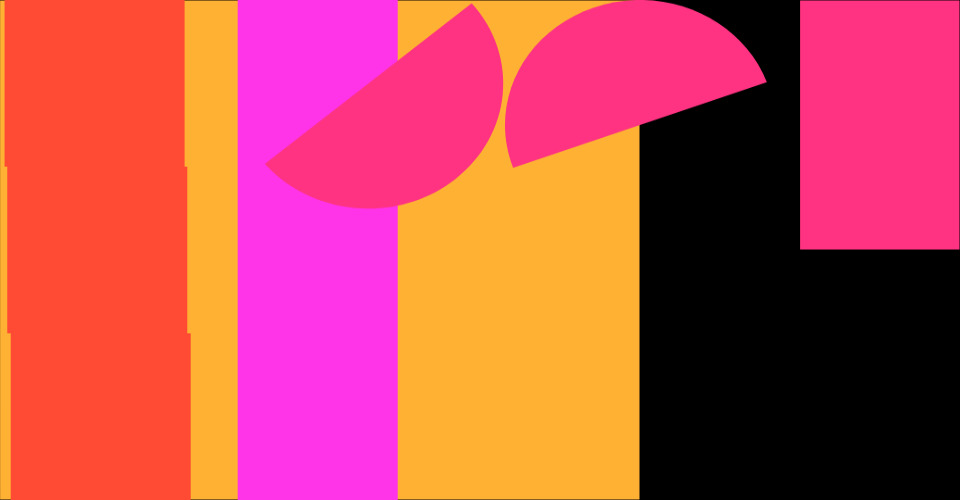
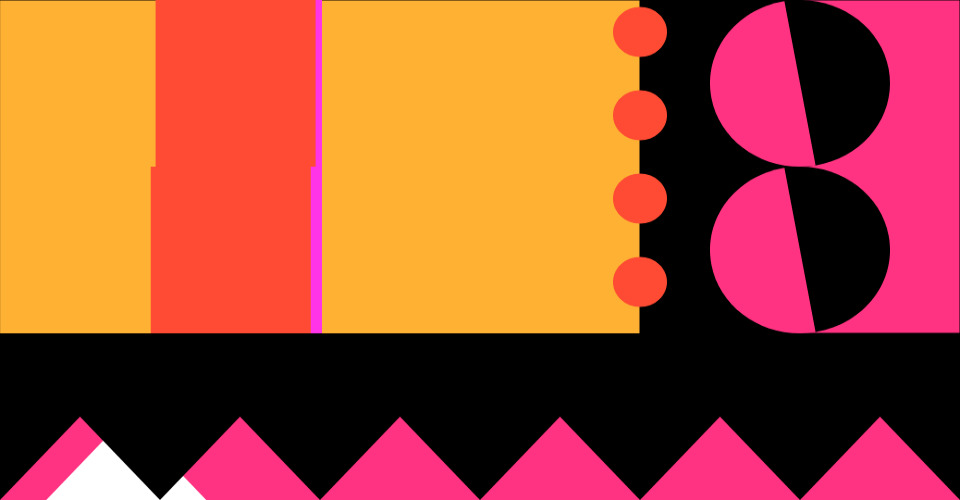
Core elements & buffer

diff --git a/draw_one_frame.js b/draw_one_frame.js
@@ -8,12 +8,15 @@ function draw_one_frame(cur_frac){
   let orange = color("#ff4b33");
   let gold = color("#ffb133");
 
+  // Useful code
+  // fill(color(map(amount_across, 0, 1, 0, 255)))
+
   background(0);
   fill(gold);
   rect(0, 0, width * 4/6, height);
 
   fill(hot_pink);
-  rect(width * 5/6, 0, width * 1/6, height/2);
+  rect(width * 5/6, 0, width * 1/6, height * 4/6);
 
   // Back rectangle
   draw_Backrect(cur_frac);
@@ -21,16 +24,27 @@ function draw_one_frame(cur_frac){
   // Upper-left squares
   draw_rect_1(cur_frac);
   draw_rect_2(cur_frac);
-  draw_rect_3(cur_frac);
+  // draw_rect_3(cur_frac);
 
   // Rotating semi-circle
   draw_semi();
   draw_semi2();
 
+  // Multiple ellipses
+  draw_multiples(cur_frac);
+
+  // Bottom rectangle
+  fill (hot_pink);
+  rect(0, height * 2/3, width, height * 2/3);
+
+  // Triangles
+  draw_tri(cur_frac);
+  draw_triangles();
+
 }
 
 //////// FUNCTIONS //////////
-// Upper left rectangle/square
+// Upper left rectangle 1
 function draw_rect_1(cur_frac) {
   // General movement w/help from example_easing.js
   let going_right = true;
@@ -47,37 +61,35 @@ function draw_rect_1(cur_frac) {
   // Easing movement
   const left_x = int(0);
   const right_x = int(width/6);
-  const ease_amount_across = ease.circularInOut(amount_across); // OK
+  const ease_amount_across = ease.circularOut(amount_across); // OK
 
   if(going_right) {
-    cur_x2 = map(ease_amount_across, 0, 1, left_x, right_x);
+    cur_x = map(ease_amount_across, 0, 1, left_x, right_x);
   }
   else {
-    cur_x2 = map(ease_amount_across, 0, 1, right_x, left_x)
+    cur_x = map(ease_amount_across, 0, 1, right_x, left_x)
   }
 
-  // Rectangle/square
-  let r_height = int(0); // y-position of rect
-  let r_size = int(height/3); // size control
+  // Rectangle
   let orange = color("#ff4b33"); // orange
 
   fill(orange);
   noStroke();
-  rect(cur_x2, r_height, r_size);
+  rect(cur_x, 0, width/6, height * 2/6);
 }
 
-// Upper left rectangle/square 2
+// Upper left rectangle 2
 function draw_rect_2(cur_frac) {
   // General movement w/help from example_easing.js
   let going_right = true;
   let amount_across = 0;
   if (cur_frac < 0.5) {
     going_right = true;
-    amount_across = cur_frac * 2.5;
+    amount_across = cur_frac * 2;
   }
   else {
     going_right = false;
-    amount_across = (cur_frac-0.5) * 2.5;
+    amount_across = (cur_frac-0.5) * 2;
   }
 
   // Easing movement
@@ -86,59 +98,21 @@ function draw_rect_2(cur_frac) {
   const ease_amount_across = ease.circularInOut(amount_across); // OK
 
   if(going_right) {
-    cur_x2 = map(ease_amount_across, 0, 1, left_x, right_x);
+    cur_x = map(ease_amount_across, 0, 1, left_x, right_x);
   }
   else {
-    cur_x2 = map(ease_amount_across, 0, 1, right_x, left_x)
+    cur_x = map(ease_amount_across, 0, 1, right_x, left_x)
   }
 
-  // Rectangle/square
-  let r_height = int(height/3); // y-position of rect
-  let r_size = int(height/3); // size control
+  // Rectangle
   let orange = color("#ff4b33"); // orange
 
   fill(orange);
   noStroke();
-  rect(cur_x2, r_height, r_size);
+  rect(cur_x, height/3, width/6, height * 2/6);
 }
 
-// Upper left rectangle/square 3
-function draw_rect_3(cur_frac) {
-  // General movement w/help from example_easing.js
-  let going_right = true;
-  let amount_across = 0;
-  if (cur_frac < 0.5) {
-    going_right = true;
-    amount_across = cur_frac * 3;
-  }
-  else {
-    going_right = false;
-    amount_across = (cur_frac-0.5) * 3;
-  }
-
-  // Easing movement
-  const left_x = int(0);
-  const right_x = int(width/6);
-  const ease_amount_across = ease.circularInOut(amount_across); // OK
-
-  if(going_right) {
-    cur_x2 = map(ease_amount_across, 0, 1, left_x, right_x);
-  }
-  else {
-    cur_x2 = map(ease_amount_across, 0, 1, right_x, left_x)
-  }
-
-  // Rectangle/square
-  let r_height = int(height * 2/3); // y-position of rect
-  let r_size = int(height/3); // size control
-  let orange = color("#ff4b33"); // orange
-
-  fill(orange);
-  noStroke();
-  rect(cur_x2, r_height, r_size);
-}
-
-// Backgrounf rectangle
+// Background rectangle
 function draw_Backrect(cur_frac) {
 // General movement w/help from example_easing.js
   let going_right = true;
@@ -154,14 +128,15 @@ function draw_Backrect(cur_frac) {
 
   // Easing movement
   const left_x = int(width/6);
-  const right_x = int(width/4);
-  const ease_amount_across = ease.circularInOut(amount_across); // OK
+  const right_x = int(width * 2/6);
+
+  const ease_amount_across = ease.exponentialInOut(amount_across); // OK
 
   if(going_right) {
-    cur_x2 = map(ease_amount_across, 0, 1, right_x, left_x);
+    cur_x = map(ease_amount_across, 0, 1, right_x, left_x);
   }
   else {
-    cur_x2 = map(ease_amount_across, 0, 1, left_x, right_x)
+    cur_x = map(ease_amount_across, 0, 1, left_x, right_x);
   }
 
   // Rectangle/square
@@ -169,45 +144,159 @@ function draw_Backrect(cur_frac) {
 
   fill(magenta);
   noStroke();
-  rect(cur_x2, 0, width/6, height);
+  rect(cur_x, 0, width/6, height * 2/3);
 }
 
-// Rotating semi-circle
+// Rotating semi-circle 1
 function draw_semi(cur_frac) {
   let hot_pink = color("#ff3381");
 
-  // Origin
-  translate(width * 2/3, height/4);
-
   // Semi-circle
-  let diameter = height/2;
+  let diameter = height/3;
   let x = 0;
   let y = 0;
   
   // Rotation
+  push();
+  translate(width * 5/6, height/6);
+
   let angle = radians(frameCount * 20 % 360);
   rotate(angle);
 
+  fill(0);
+  ellipse(x, y, diameter);
   fill(hot_pink);
   arc(x, y, diameter, diameter, 0, PI);
+  pop();
 }
 
 // Rotating semi-circle 2
 function draw_semi2(cur_frac) {
   let hot_pink = color("#ff3381");
 
-  // Origin
-  translate(width/4, height/4);
-
   // Semi-circle
-  let di = height/2;
+  let diameter = height/3;
   let x = 0;
   let y = 0;
   
   // Rotation
+  push();
+  translate(width * 5/6, height/2);
+
   let angle2 = radians(frameCount * 20 % 360);
   rotate(angle2);
 
+  fill(0);
+  ellipse(x, y, diameter);
   fill(hot_pink);
-  arc(x, y, di, di, 0, PI);
+  arc(x, y, diameter, diameter, 0, PI);
+  pop();
+}
+
+// Multiples example shown in class
+function draw_multiples(cur_frac) {
+const ease = new p5.Ease();
+const orbSize = height / 10;
+let orange = color("#ff4b33");
+
+let numberOfOrbs = 4; 
+let sliced_Frac = cur_frac / numberOfOrbs;
+
+
+for(let i = 0; i < numberOfOrbs; i++){
+  let amount_across = (sliced_Frac + i/numberOfOrbs) % 1.0;
+
+  let orbX = map(amount_across, 0, 1, 0, height * 2/3)
+  fill(orange);
+  ellipse(width * 4/6, orbX, orbSize)
+}
+
+}
+
+// Triangle pattern
+function draw_triangles(cur_frac) {
+  // Triangles
+  let triPeak = height
+  let triBott = height * 2/3
+
+  fill(0);
+  triangle(0, triBott, 0, triPeak, width/6, triBott);
+  triangle(0, triBott, width/6, triPeak, width * 2/6, triBott);
+  triangle(width/6, triBott, width * 2/6, triPeak, width * 3/6, triBott);
+  triangle(width * 2/6, triBott, width * 3/6, triPeak, width * 4/6, triBott);
+  triangle(width * 3/6, triBott, width * 4/6, triPeak, width * 5/6, triBott);
+  triangle(width * 4/6, triBott, width * 5/6, triPeak, width, triBott);
+  triangle(width * 5/6, triBott, width, triPeak, width, triBott);
+}
+
+// Moving backing triangle
+function draw_tri(cur_frac) {
+  const ease = new p5.Ease();
+
+  // Left point
+  const L_left_x = int(0);
+  const L_left_y = int(height);
+
+  const L_right_x = int(width * 5/6);
+  const L_right_y = int(height);
+
+  // Middle point
+  const M_left_x = int(width/12);
+  const M_left_y = int(height * 5/6);
+
+  const M_right_x = int(width * 11/12);
+  const M_right_y = int(height * 5/6);
+
+  // Right point
+  const R_left_x = int(width/6);
+  const R_left_y = int(height);
+
+  const R_right_x = int(width);
+  const R_right_y = int(height);
+
+
+
+  // General movement w/help from example_easing.js
+  let going_right = true;
+  let amount_across = 0;
+
+  if (cur_frac < 0.5) {
+    going_right = true;
+    amount_across = cur_frac * 2;
+  }
+  else {
+    going_right = false;
+    amount_across = (cur_frac-0.5) * 2;
+  }
+
+  // Easing movement
+  const ease_amount_across = ease.circularInOut(amount_across); // OK
+
+  if(going_right) {
+    cur_1 = map(ease_amount_across, 0, 1, L_right_x, L_left_x);
+    cur_1y = map(ease_amount_across, 0, 1, L_right_y, L_left_y);
+
+    cur_2 = map(ease_amount_across, 0, 1, M_right_x, M_left_x);
+    cur_2y = map(ease_amount_across, 0, 1, M_right_y, M_left_y);
+
+    cur_3 = map(ease_amount_across, 0, 1, R_right_x, R_left_x);
+    cur_3y = map(ease_amount_across, 0, 1, R_right_y, R_left_y);
+
+  }
+  else {
+    cur_1 = map(ease_amount_across, 0, 1, L_left_x, L_right_x)
+    cur_1y = map(ease_amount_across, 0, 1, L_left_y, L_right_y)
+
+    cur_2 = map(ease_amount_across, 0, 1, M_left_x, M_right_x)
+    cur_2y = map(ease_amount_across, 0, 1, M_left_y, M_right_y)
+
+    cur_3 = map(ease_amount_across, 0, 1, R_left_x, R_right_x)
+    cur_3y = map(ease_amount_across, 0, 1, R_left_y, R_right_y)
+
+  }
+
+  // Rectangle/square
+  fill(255);
+  noStroke();
+  triangle(cur_1, cur_1y, cur_2, cur_2y, cur_3, cur_3y);
 }

diff --git a/code.js b/code.js
@@ -4,7 +4,7 @@ const debugZoomBackground = "#555588"
 const debugZoomScale = 0.5;
 
 // this can be modified after we discuss in lecture
-const buffersPerFrame = 1;
+const buffersPerFrame = 5;
 
 // probably best not to modify anything below this line
 const frameMax = 24;

diff --git a/README.md b/README.md
@@ -1,5 +1,5 @@
 [![Open in Visual Studio Code](https://classroom.github.com/assets/open-in-vscode-c66648af7eb3fe8bc4f294546bfd86ef473780cde1dea487d3c4ff354943c9ae.svg)](https://classroom.github.com/online_ide?assignment_repo_id=10300842&assignment_repo_type=AssignmentRepo)
 ### 2023 MDDN342 Project 1: Parameterised Space
 
-21/3/2023
-Forgot to commit this last session. Have got most of the unrefined movements on the page, though still a couple glitches in those to sort out. Am fairly happy with the composition at the moment but will likely make more tweaks as I further refine things. Currently have a little room on the far right side to add more elements in, but I'm not 100% sure what I want those to be at the moment.
+22/3/2023
+Majority of my key elements are on the page now. At this stage I just need to finalise the colour scheme and potentially add a couple more movements and/or tweak some. Theres some space in the middle which I had some ideas for, so might incorperate that. I also adjusted the buffer as shown in class which I think really helped how things look.
